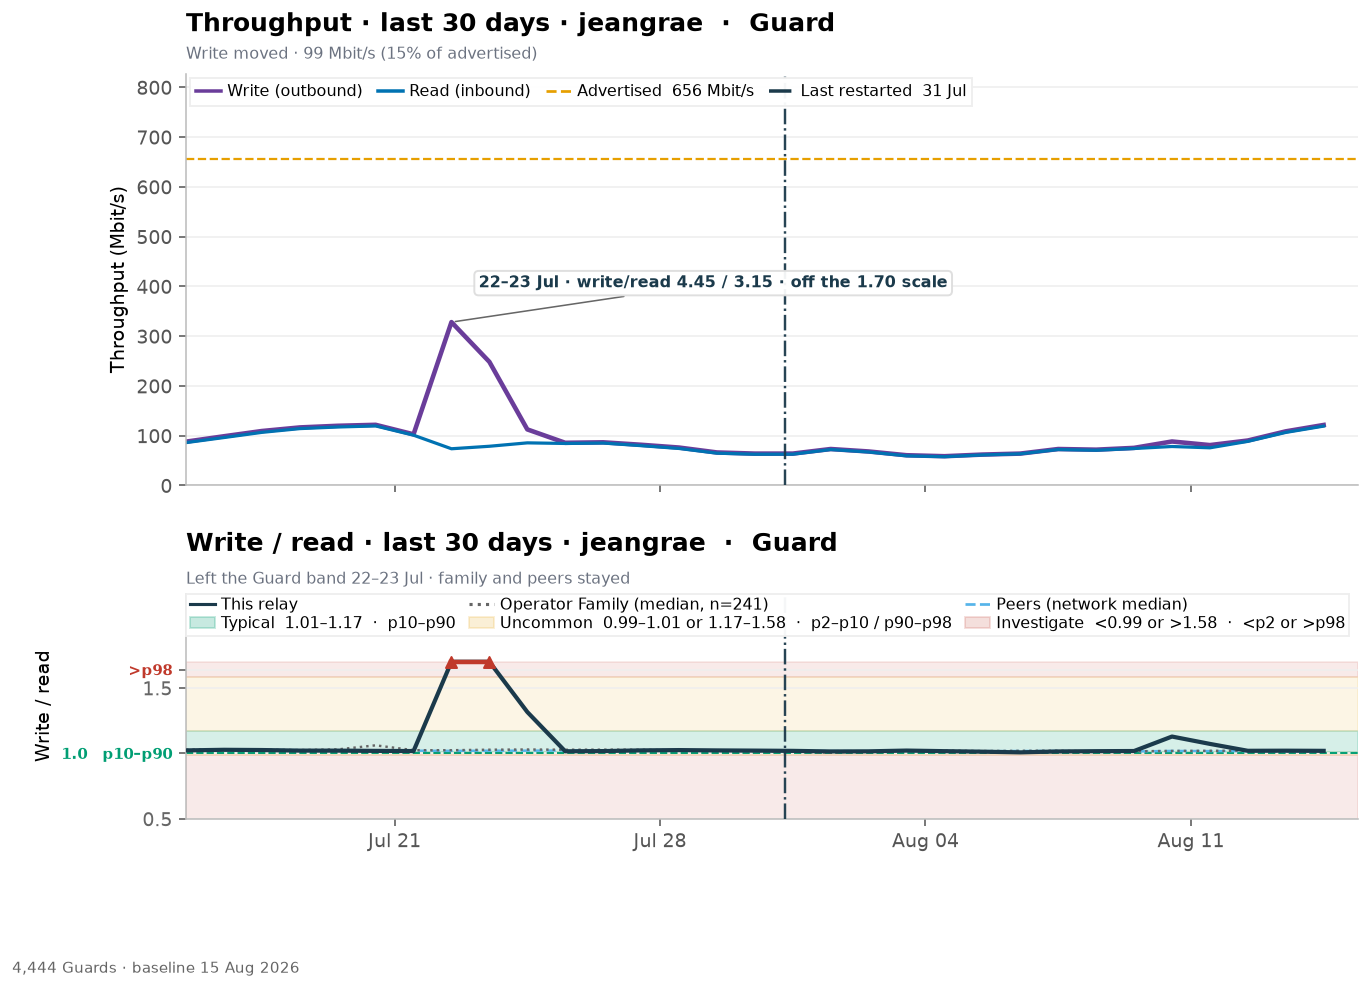
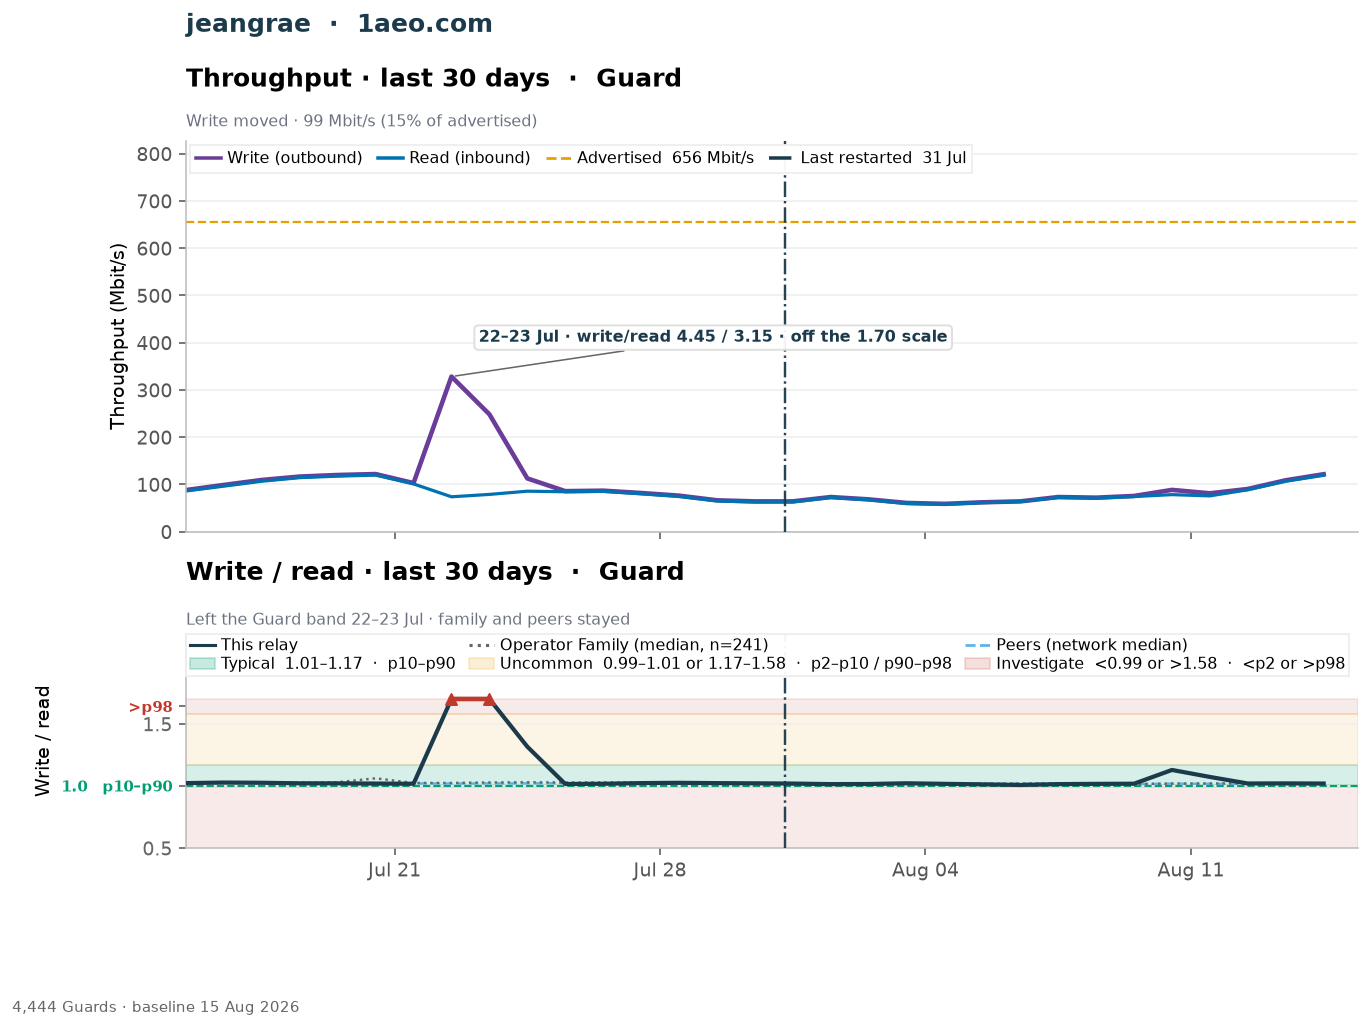
Refresh mockups with 13pt identity and a real title gap
jeangrae · 1aeo.com and F3Netze · f3netze.de now match the metric
title size and sit above Throughput with clear air. Write/read
keeps a clean title. F3 C subtitles stay empty.

diff --git a/docs/features/planned/charts/mockups/relay_page_bw_outcomes.html b/docs/features/planned/charts/mockups/relay_page_bw_outcomes.html
@@ -89,9 +89,10 @@ code { font-size:12px; background:#eee; padding:1px 4px; border-radius:3px; }
     <strong>Locked: C — who moved</strong>
     Empty when history is thin or the month is all-clear (typical
     write/read, no investigate day, no spike, no crash). Overload
-    stays in the legend. Restart is a vertical line. Nickname is on
-    the title:
-    <code>Throughput · last 30 days · {nickname} · {role}</code>.
+    stays in the legend. Restart is a vertical line. Identity sits
+    above Throughput at 13 pt bold:
+    <code>jeangrae · 1aeo.com</code> then
+    <code>Throughput · last 30 days · Guard</code>.
     Any advertised share is raw throughput plus percent:
     <code>99 Mbit/s (15% of advertised)</code>.
   </div>
@@ -107,14 +108,14 @@ code { font-size:12px; background:#eee; padding:1px 4px; border-radius:3px; }
   
   <section class="section-box recommend">
     <h4>jeangrae · C who moved</h4>
-    <p class="relay-meta">Write moved off the Guard band; family and peers stayed. Title is Throughput · last 30 days · jeangrae · Guard. Throughput is raw plus percent of advertised.</p>
+    <p class="relay-meta">Write moved off the Guard band; family and peers stayed. Identity sits above Throughput: jeangrae · 1aeo.com. Throughput is raw plus percent of advertised.</p>
     <div class="chart-wrap">
       <img src="relay_bandwidth_outcome_c_jeangrae.png" alt="jeangrae · C who moved">
     </div>
   </section>
   <section class="section-box recommend">
     <h4>F3Netze · C who moved</h4>
-    <p class="relay-meta">All-clear month: typical write/read, no investigate day, no spike, no crash. Subtitles stay empty. Overload is the legend diamond. Title is Throughput · last 30 days · F3Netze · Exit+Guard.</p>
+    <p class="relay-meta">All-clear month: typical write/read, no investigate day, no spike, no crash. Subtitles stay empty. Overload is the legend diamond. Identity sits above Throughput: F3Netze · f3netze.de.</p>
     <div class="chart-wrap">
       <img src="relay_bandwidth_outcome_c_f3.png" alt="F3Netze · C who moved">
     </div>
@@ -122,7 +123,7 @@ code { font-size:12px; background:#eee; padding:1px 4px; border-radius:3px; }
   <h3>Where the name sits</h3>
   <section class="section-box recommend">
     <h4>Above Throughput · ship this</h4>
-    <p class="relay-meta">Eyebrow: jeangrae · 1aeo.com. Metric title stays short. A screenshot still names the relay. On the page this is a figure label, not a second h1.</p>
+    <p class="relay-meta">13 pt bold: jeangrae · 1aeo.com, tied with Throughput. A real gap sits under the names. Metric title stays short. A screenshot still names the relay.</p>
     <div class="chart-wrap">
       <img src="relay_bandwidth_identity_above_jeangrae.png" alt="Above Throughput · ship this">
     </div>
